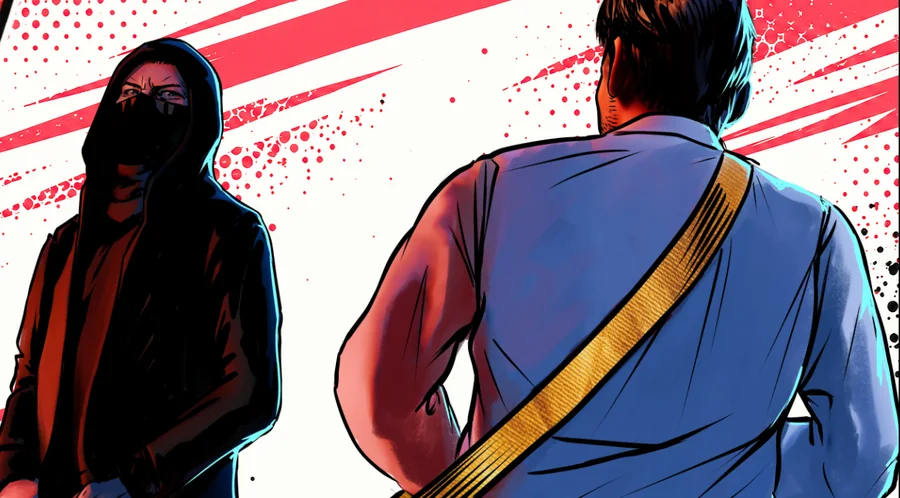
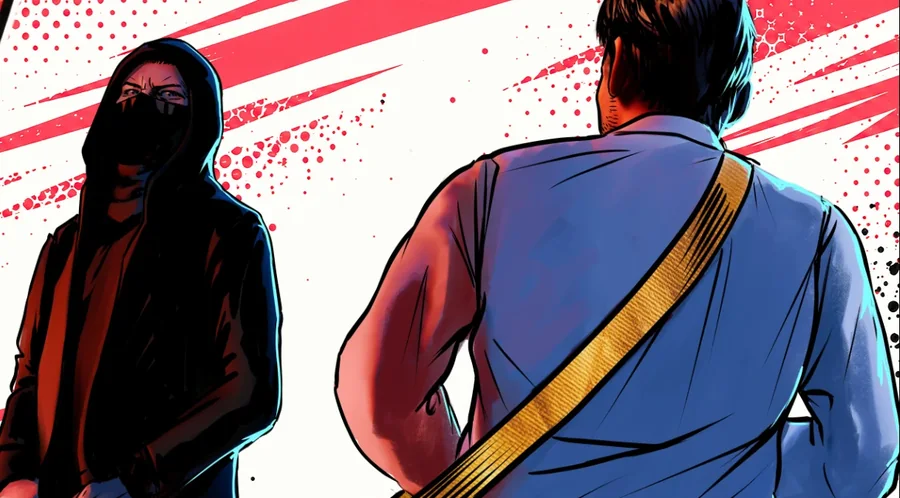
v4.1.18 - L8 revu
- L8 revu : « 2 × carte PLAN dans le CHUTIER » — 2 points par carte du Chutier de la table à la fin de la partie, une carte à deux Gros Plans comptant une fois.
- Le décompte voit désormais le Chutier : points au coin des cartes, score, IA et aide de jeu en tiennent compte.

Claude-Session: https://claude.ai/code/session_01SEL89cNhQA7nZJAfcMueK5

diff --git a/js/app.js b/js/app.js
@@ -29,7 +29,7 @@ import {
   resynchroniserBoite, bilanPaquet,
 } from './engine.js';
 import { choisirCoup, choisirDerushage, choisirDefausse, choisirDepart } from './ai.js';
-import {
+import { cfgDeTable,
   compter, SOURCES_LABEL, objsEffectifs, raccordBonifie, compteIcone, compteCible, compteGroupes, bancVide,
 } from './scoring.js';
 import { releve, voler, stopperVols } from './anim.js';
@@ -696,7 +696,7 @@ function bancBloc(st, i, titre, interactif) {
   // Ce que chaque séquence rapporte, affiché à son bout. Les points sont
   // portés par la carte qui les fait marquer.
   const ptsLigne = banc.sequences.map(() => 0);
-  const score = compter(banc, st.cfg);
+  const score = compter(banc, st.chutier ? cfgDeTable(st) : st.cfg);
   for (const l of score.lignes) {
     points.set(l.plan, (points.get(l.plan) || 0) + l.pts);
     const a = detail.get(l.plan) || []; a.push(l.pts); detail.set(l.plan, a);
@@ -1924,6 +1924,7 @@ const KINDS = [
   ['SEQ_LONGUE',   'par PLAN de la plus longue SÉQUENCE'],
   ['SEQ_AVEC',     'par SÉQUENCE avec / sans…'],
   ['SEQ_TOUTES',   'si CHAQUE SÉQUENCE a n plans…'],
+  ['DANS_CHUTIER', 'par carte PLAN dans le CHUTIER'],
   // Les neuf pouvoirs qui partagent le vocabulaire de cibles. Ils comptent
   // tous « quelque chose » — une carte, une icône, une valeur — et ne se
   // distinguent que par ce qu'ils en font.
@@ -4663,6 +4664,7 @@ function construireObj(kind, actuel) {
       actuel && actuel.sens === 'MAX' ? 'MAX' : undefined),
     SEQ_VOISINES: () => OBJ.seqVoisines(n, actuel && actuel.sens === 'APRES' ? 'APRES' : 'AVANT'),
     SEQ_LONGUE:   () => OBJ.seqLongue(n),
+    DANS_CHUTIER: () => OBJ.dansChutier(n),
     SEQ_AVEC:     () => OBJ.seqAvec(n, actuel && actuel.sens === 'SANS' ? 'SANS' : 'AVEC',
       actuel && actuel.cible ? actuel.cible : e0, actuel && actuel.seuil),
     SEQ_TOUTES:   () => OBJ.seqToutes(n, actuel && actuel.seuil ? actuel.seuil : 3,
@@ -5066,6 +5068,7 @@ function objDepuisCSV(r, suf = '') {
     // Les pouvoirs de règle. `points` y porte un nombre de séquences, de plans
     // ou de points par Raccord — pas un compte de points.
     case 'PIOCHER':      return OBJ.piocher();
+    case 'DANS_CHUTIER': return OBJ.dansChutier(n);
     case 'SEQ_PLUS':     return OBJ.sequencePlus(n);
     case 'PLAN_PLUS':    return OBJ.planPlus(n);
     case 'RACCORD_VAUT': return OBJ.raccordVaut(n);

diff --git a/js/data.js b/js/data.js
@@ -283,6 +283,11 @@ export const OBJ = {
   // nulle part. Les six éléments sont les six candidats.
   absentes: (n, portee) => ({ kind: 'ABSENTES', n, portee: portee || 'MONTAGE' }),
 
+  // « n × carte PLAN dans le CHUTIER » (L8) : n points par carte du Chutier —
+  // celui de toute la table, pas le banc. Une carte à deux Gros Plans compte une
+  // fois, comme un Plan Large. Le moteur lui passe le compte (`chutierCartes`).
+  dansChutier: (n) => ({ kind: 'DANS_CHUTIER', n }),
+
   // Si CHAQUE séquence tient la taille demandée. `sens` : MIN — toutes ont au
   // moins `seuil` plans ; MAX — toutes en ont au plus. Un banc vide ne
   // rapporte rien : il n'y a pas de séquence à juger.
@@ -399,7 +404,7 @@ export const planMarque = (objs) => (objs || []).some(rapportePoints);
  * séquence lisent la forme du banc, et deux des pouvoirs ajoutés désignent
  * eux-mêmes où ils comptent — les autres lignes, un côté du centre.
  */
-export const KINDS_PORTEE_FIXE = ['CHRONO', 'AILLEURS', 'CENTRE', 'BOUT',
+export const KINDS_PORTEE_FIXE = ['CHRONO', 'AILLEURS', 'CENTRE', 'BOUT', 'DANS_CHUTIER',
   ...KINDS_SEQUENCE, ...KINDS_REGLE];
 
 /** Ce bandeau-là laisse-t-il choisir sa portée ? */
@@ -700,6 +705,7 @@ export function objLabel(o, cfg, opts = {}) {
   switch (o.kind) {
     // --- Les pouvoirs de règle : une phrase, pas un compte ------------------
     case 'PIOCHER': return 'Vous pouvez piocher vos Plans sur le Chutier';
+    case 'DANS_CHUTIER': return `${fois} carte Plan dans le Chutier`;
     case 'SEQ_PLUS': return `Vous pouvez poser ${o.n} séquence${
       o.n > 1 ? 's' : ''} supplémentaire${o.n > 1 ? 's' : ''}${
       cfg && cfg.sequencesMax > 0 ? ` (${cfg.sequencesMax + o.n})` : ''}`;
@@ -1037,7 +1043,7 @@ const PLANS_41 = [
   PL(5, 20, ['OBJET', 'HEROINE', 'ALLIE', 'VEHICULE'], OBJ.raccordVaut(1)),
   PL(6, 20, ['OBJET', 'ARME', 'VEHICULE'], OBJ.seqLongue(2)),
   PL(7, 30, ['ALLIE', 'ENNEMI', 'ARME'], OBJ.planPlus(1)),
-  PL(8, 30, ['ENNEMI', 'ALLIE', 'OBJET'], OBJ.seqAvec(4, 'SANS', 'HEROINE')),
+  PL(8, 30, ['ENNEMI', 'ALLIE', 'OBJET'], OBJ.dansChutier(2)),
   PL(9, 30, ['VEHICULE', 'HEROINE', 'ENNEMI'], OBJ.seqAvec(4, 'SANS', 'TC_VIDE')),
   PL(10, 35, [], OBJ.seqAvec(3, 'AVEC', 'ORDRE')),
   PL(11, 40, ['HEROINE', 'ENNEMI', 'VEHICULE', 'ARME'], OBJ.seqAvec(3, 'AVEC', 'PLAN', 3)),

diff --git a/js/scoring.js b/js/scoring.js
@@ -286,6 +286,8 @@ export function valeurObjectif(obj, sequence, banc, cfg, porteur, profond = fals
     ? porteeDe(obj, sequence, banc, cfg, porteur).filter((p) => p !== porteur)
     : porteeDe(obj, sequence, banc, cfg, porteur);
   const n = obj.n;
+  // Le Chutier n'est pas sur le banc : c'est le moteur qui en donne le compte.
+  if (obj.kind === 'DANS_CHUTIER') return n * Math.max(0, cfg.chutierCartes || 0);
 
   switch (obj.kind) {
     case 'RACCORD':
@@ -583,6 +585,15 @@ export function raccordBonifie(plan, banc, cfg) {
 }
 
 /** Décompte complet d'un banc, ventilé par source. */
+/**
+ * La configuration d'une partie, augmentée de ce que la TABLE montre et que le
+ * banc ne sait pas : le nombre de cartes du Chutier (« 2 × carte Plan dans le
+ * Chutier »). Une copie : la configuration de la partie n'est pas touchée.
+ */
+export function cfgDeTable(state) {
+  return { ...state.cfg, chutierCartes: state.chutier ? state.chutier.length : 0 };
+}
+
 export function compter(banc, cfg) {
   const montage = tousLesPlans(banc);
   const mult = cfg.multiplicateurObjectif ?? 1;
@@ -592,7 +603,7 @@ export function compter(banc, cfg) {
     MORT: 0, ABSENT: 0, MINUTAGE: 0, CHRONO: 0, SANS_TC: 0, BOUT: 0,
     SEQ_TAILLE: 0, SEQ_VOISINES: 0, SEQ_LONGUE: 0, SEQ_AVEC: 0, SEQ_TOUTES: 0,
     AILLEURS: 0, CENTRE: 0, LOT: 0, SEUIL: 0, ABSENTES: 0, DOMINE: 0,
-    EXTREME: 0, PLAN_ICONES: 0, DOUBLE: 0,
+    EXTREME: 0, PLAN_ICONES: 0, DOUBLE: 0, DANS_CHUTIER: 0,
     // Les pouvoirs de règle restent à zéro : aucun ne rapporte là où il est
     // posé. Trois ouvrent un droit, que le moteur lit ; le quatrième dit ce que
     // valent les Cartes Raccord, et ce sont ELLES qui portent alors les points.
@@ -690,6 +701,7 @@ export const SOURCES_LABEL = {
   SEUIL: 'Pouvoirs à seuil',
   ABSENTES: 'Pouvoirs d’icônes absentes',
   DOMINE: 'Pouvoirs de cible dominante',
+  DANS_CHUTIER: 'Pouvoirs du Chutier',
   EXTREME: 'Pouvoirs d’icône la plus / la moins présente',
   PLAN_ICONES: 'Pouvoirs de plan chargé',
   DOUBLE: 'Pouvoirs de carte doublée',

diff --git a/js/ai.js b/js/ai.js
@@ -11,7 +11,7 @@ import {
   limitePlans, placeDuCote, plansDuCote, peutDefausser,
 } from './engine.js';
 import {
-  compter, bonusRegle, chutierOuvert, plansComptes, bonusRaccord, estRaccordSimple, tousLesPlans,
+  compter, bonusRegle, chutierOuvert, plansComptes, bonusRaccord, estRaccordSimple, tousLesPlans, cfgDeTable,
 } from './scoring.js';
 import { objsDe, moitiesDe } from './data.js';
 import { PROFILS_IA } from './config.js';
@@ -166,9 +166,11 @@ function meilleurAvec(banc, carte, cfg, base, reste) {
 /** Ce que chaque carte offerte vaudrait pour ce banc-là — `null` si elle ne s'y pose pas. */
 function valeursPour(state, p, cartes) {
   const banc = state.bancs[p];
-  const base = compter(banc, state.cfg).total;
-  const reste = Math.max(0, plansRestants(banc, state.cfg) - 1);
-  return cartes.map((carte) => meilleurAvec(banc, carte, state.cfg, base, reste));
+  // Le décompte voit le Chutier : une carte qui paie ce qu'il contient y lit son prix.
+  const cfg = cfgDeTable(state);
+  const base = compter(banc, cfg).total;
+  const reste = Math.max(0, plansRestants(banc, cfg) - 1);
+  return cartes.map((carte) => meilleurAvec(banc, carte, cfg, base, reste));
 }
 
 // --- Avant de choisir : défausser ? -----------------------------------------
@@ -265,7 +267,7 @@ export function choisirDerushage(state, p, rand = Math.random) {
 
 export function choisirCoup(state, p, rand = Math.random) {
   const profil = PROFILS_IA[state.joueurs[p].type] || PROFILS_IA.EQUILIBRE;
-  const cfg = state.cfg;
+  const cfg = cfgDeTable(state);
   const banc = state.bancs[p];
   const coups = coupsPossibles(state, p);
   if (!coups.length) return null;

diff --git a/js/engine.js b/js/engine.js
@@ -12,7 +12,7 @@
 import {
   buildCartesDoubles, buildPlansLarges, buildDeparts, moitiesDe, plHalf, carteComplete, etiquettePlan,
 } from './data.js';
-import { compter, bancVide, plansComptes, bonusRegle, chutierOuvert } from './scoring.js';
+import { compter, bancVide, plansComptes, bonusRegle, chutierOuvert, cfgDeTable } from './scoring.js';
 
 // --- Aléatoire reproductible ----------------------------------------------
 
@@ -165,7 +165,7 @@ export function creerPartie(joueurs, cfg, graine) {
 /** Un point de plus sur la courbe de cette joueuse. */
 function noterCourbe(state, p) {
   if (!state.courbe) state.courbe = state.joueurs.map(() => []);
-  state.courbe[p].push(compter(state.bancs[p], state.cfg).total);
+  state.courbe[p].push(compter(state.bancs[p], cfgDeTable(state)).total);
 }
 
 function journal(state, texte, joueur = null) {
@@ -673,7 +673,8 @@ export function avancer(state) {
 // --- Scores ----------------------------------------------------------------
 
 export function scores(state) {
-  return state.bancs.map((b) => compter(b, state.cfg));
+  const cfg = cfgDeTable(state);
+  return state.bancs.map((b) => compter(b, cfg));
 }
 
 export function classement(state) {

diff --git a/js/cards.js b/js/cards.js
@@ -302,6 +302,9 @@ function objCoeur(obj, taille, compact, large) {
       <span class="tc-seuil">${obj.sens === 'EXACT' || !obj.sens
     ? `=&nbsp;${obj.seuil}` : seuilTexte(obj.sens, obj.seuil)}${
   compact ? '' : '&nbsp;icônes'}</span>`;
+    // « 2 × carte PLAN dans le CHUTIER » : les deux étiquettes de la carte.
+    case 'DANS_CHUTIER': return `<span class="mot">carte</span><span class="tag tag-blanc">Plan</span>
+      <span class="mot">${compact ? 'au' : 'dans le'}</span><span class="tag tag-gris">Chutier</span>`;
     // --- Les pouvoirs de règle : une phrase, dans la police du « × » -------
     case 'PIOCHER': case 'SEQ_PLUS': case 'PLAN_PLUS': case 'RACCORD_VAUT':
       return `<span class="regle-mot">${phraseRegleHTML(obj, compact)}</span>`;
@@ -643,6 +646,7 @@ function coutCoeur(obj, compact, P, large) {
     }
     case 'DOUBLE': return t('plus petite carte', '+ petite')
       + (obj.critere === 'POINTS' ? 0 : g + tt(compact ? 'cadr.' : 'cadrage'));
+    case 'DANS_CHUTIER': return mot('carte') + g + t('Plan') + g + mot(compact ? 'au' : 'dans le') + g + t('Chutier');
     default: return P.rond;
   }
 }

diff --git a/js/version.js b/js/version.js
@@ -1,8 +1,16 @@
 // Compteur de version — incrémenter à chaque modification livrée.
-export const VERSION = '4.1.17';
-export const BUILD_DATE = '2026-11-13 11:42';
+export const VERSION = '4.1.18';
+export const BUILD_DATE = '2026-11-13 11:53';
 
 export const CHANGELOG = [
+  {
+    v: '4.1.18',
+    date: '13/11/2026',
+    items: [
+      "<b>L8 revu</b> : « 2 × carte PLAN dans le CHUTIER » — 2 points par carte du Chutier de la table à la fin de la partie, une carte à deux Gros Plans comptant une fois.",
+      "Le décompte voit désormais le Chutier : points au coin des cartes, score, IA et aide de jeu en tiennent compte.",
+    ],
+  },
   {
     v: '4.1.17',
     date: '13/11/2026',

diff --git a/js/livret.js b/js/livret.js
@@ -169,6 +169,10 @@ const COMPTENT = [
       des Raccords.` },
   { si: (o) => o.kind === 'PLAN',
     dit: (o, pt) => `<b>${pts(o.n)} par carte</b> ${ou(pt)}.` },
+  { si: (o) => o.kind === 'DANS_CHUTIER',
+    dit: (o) => `<b>${pts(o.n)} par carte dans le Chutier</b> à la fin de la partie — le Chutier de toute
+      la table, pas votre banc. Chaque carte qui s’y trouve compte une fois, Plan Large ou carte à deux
+      Gros Plans. Il grossit à chaque défausse, et se vide quand la pioche est épuisée.` },
   { si: (o) => o.kind === 'SEQ_TAILLE',
     dit: (o) => ((o.seuil || 1) <= 1 && o.sens !== 'MAX'
       ? `<b>${pts(o.n)} par séquence</b> de votre banc.`

diff --git a/js/config.js b/js/config.js
@@ -48,7 +48,7 @@ export const DEFAULTS = {
     // Les pouvoirs du vocabulaire commun : ils comptent tous « une cible »
     // dans une portée, et ne se distinguent que par ce qu'ils en font.
     AILLEURS: true, CENTRE: true, LOT: true, SEUIL: true, ABSENTES: true, DOMINE: true,
-    EXTREME: true, PLAN_ICONES: true, DOUBLE: true,
+    EXTREME: true, PLAN_ICONES: true, DOUBLE: true, DANS_CHUTIER: true,
     // Les pouvoirs de RÈGLE. Ils ne rapportent pas de points là où ils sont
     // posés : les décocher n'annule pas un gain, cela retire un droit — plus de
     // prise sur le Chutier, plus de séquence ni de plan supplémentaire, et les

diff --git a/sw.js b/sw.js
@@ -7,7 +7,7 @@
 // site, et ne se rabat sur sa copie en cache qu'en cas de coupure — le site
 // reste donc consultable hors ligne, mais n'est jamais périmé en ligne.
 
-const CACHE = 'edit-4.1.17';
+const CACHE = 'edit-4.1.18';
 
 self.addEventListener('install', () => {
   // La nouvelle version du worker prend la main sans attendre.
